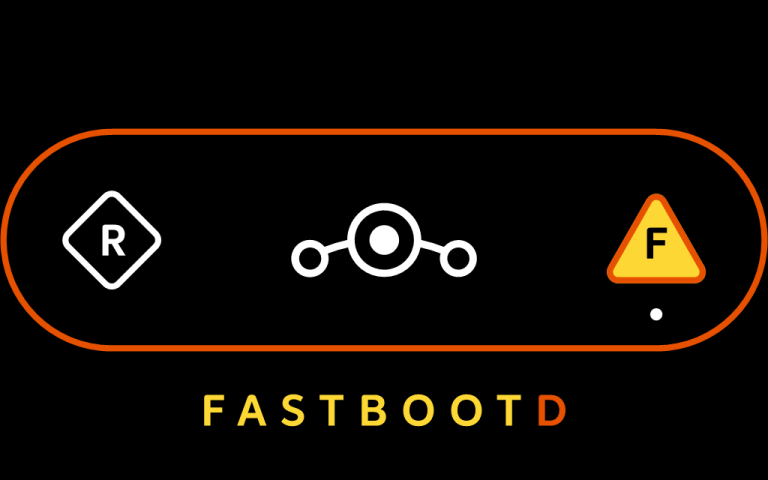
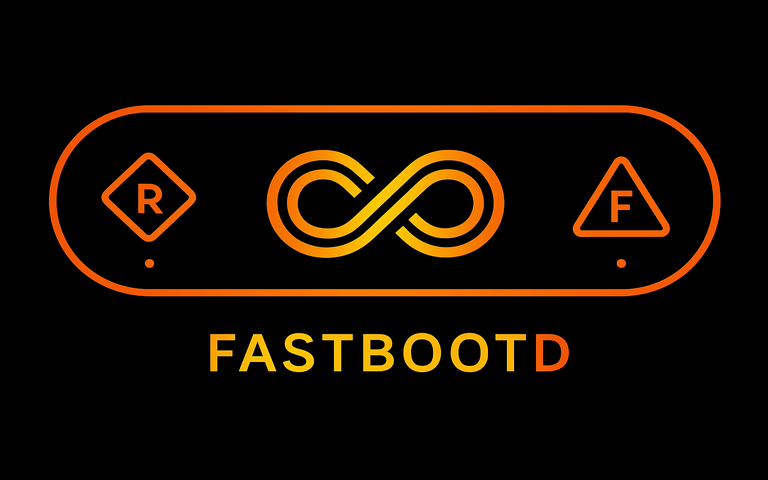
recovery_ui: Adapt images for Infinity-X

diff --git a/recovery_ui/screen_ui.cpp b/recovery_ui/screen_ui.cpp
@@ -592,34 +592,34 @@ void ScreenRecoveryUI::SetColor(UIElement e) const {
         gr_color(0xc7, 0x15, 0x85, 255);
       break;
     case UIElement::INFO:
-      if (fastbootd_logo_enabled_)
-        gr_color(0xfd, 0xd8, 0x35, 255);
-      else
-        gr_color(0xf8, 0x90, 0xff, 255);
+     if (fastbootd_logo_enabled_)
+       gr_color(0xfd, 0xd8, 0x35, 255);
+    else
+       gr_color(0, 191, 255, 255);
       break;
     case UIElement::HEADER:
-      if (fastbootd_logo_enabled_)
-        gr_color(0xfd, 0xd8,0x35, 255);
-      else
-        gr_color(0xf8, 0x90, 0xff, 255);
+     if (fastbootd_logo_enabled_)
+       gr_color(0xfd, 0xd8, 0x35, 255);
+    else
+       gr_color(0, 191, 255, 255);
       break;
     case UIElement::MENU:
-      gr_color(0xd8, 0xd8, 0xd8, 255);
-      break;
+       gr_color(0xd8, 0xd8, 0xd8, 255);
+    break;
     case UIElement::MENU_SEL_BG:
     case UIElement::SCROLLBAR:
-      if (fastbootd_logo_enabled_)
-        gr_color(0xe6, 0x51, 0x00, 255);
-      else
-        gr_color(0x7c, 0x4d, 0xff, 255);
+    if (fastbootd_logo_enabled_)
+       gr_color(0xe6, 0x51, 0x00, 255);
+    else
+       gr_color(0, 72, 190, 255);
       break;
     case UIElement::MENU_SEL_BG_ACTIVE:
       gr_color(0, 156, 100, 255);
       break;
     case UIElement::MENU_SEL_FG:
-      if (fastbootd_logo_enabled_)
-        gr_color(0, 0, 0, 255);
-      else
+    if (fastbootd_logo_enabled_)
+       gr_color(0, 0, 0, 255);
+    else
         gr_color(0xd8, 0xd8, 0xd8, 255);
       break;
     case UIElement::LOG:
